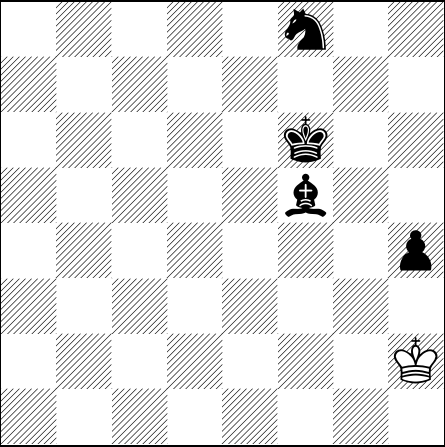
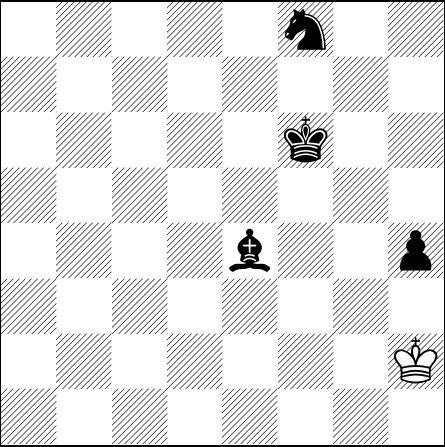
[automated] Regenerate text/pdf for chessboard

Changed region(s): [[0.6427, 0.3781, 0.7303, 0.4944], [0.4966, 0.4944, 0.6135, 0.6107]]

diff --git a/default_filepath.tex b/default_filepath.tex
@@ -13,6 +13,6 @@
 \normalsize%
 \setchessboard{showmover=false}%
 \newgame%
-\fenboard{5n2/8/5k2/5b2/7p/8/7K/8 b - - 1 201}%
+\fenboard{5n2/8/5k2/8/4b2p/8/7K/8 w - - 2 202}%
 \chessboard%
 \end{document}
